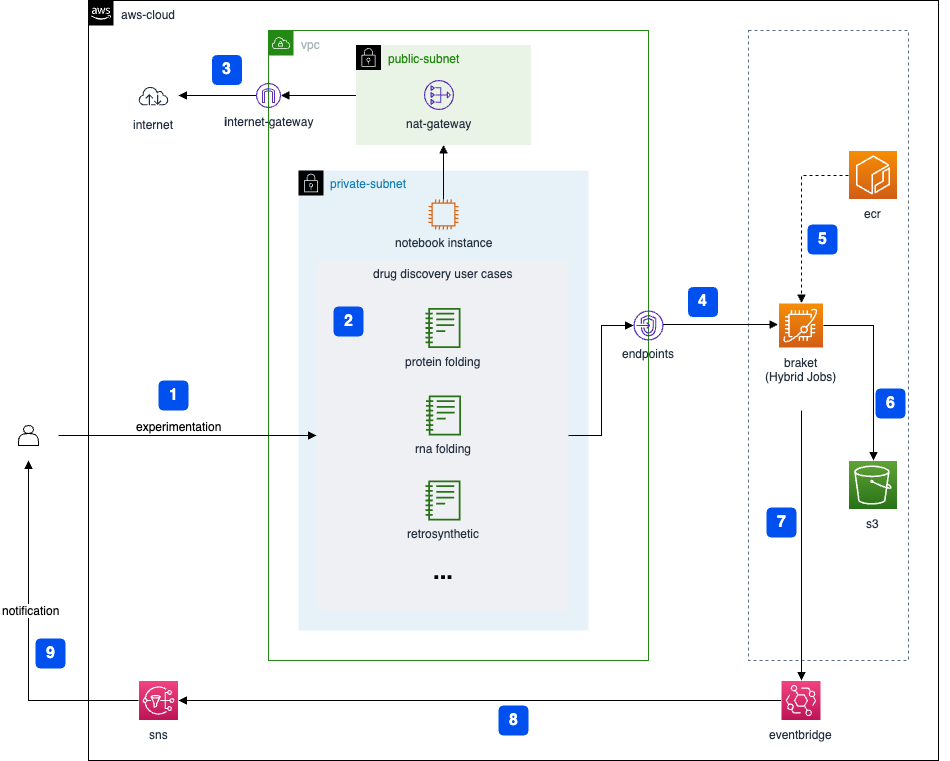
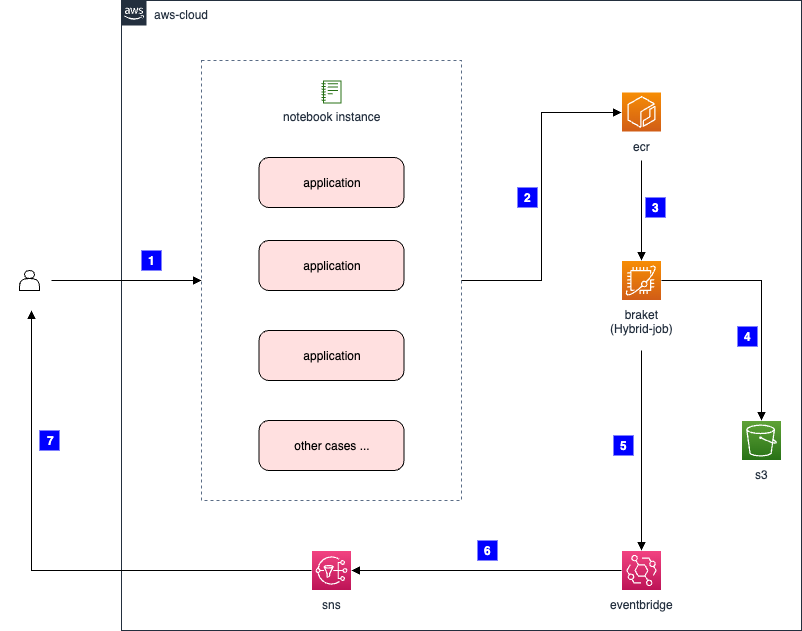
remove vpc& modify docs

diff --git a/source/src/cdk/stack-main.ts b/source/src/cdk/stack-main.ts
@@ -41,9 +41,6 @@ import { Notebook } from './construct-notebook';
 import { AddCfnNag, genRandomDigits } from './utils/utils';
 
 
-import setup_vpc_and_sg from './utils/vpc';
-
-
 export class MainStack extends SolutionStack {
   static SOLUTION_ID = 'SO8027'
   static SOLUTION_NAME = 'Quantum Computing Exploration'
@@ -96,10 +93,6 @@ export class MainStack extends SolutionStack {
 
     const prefix = MainStack.SOLUTION_NAME.split(' ').join('-').toLowerCase();
 
-    const {
-      vpc,
-      notebookSg,
-    } = setup_vpc_and_sg(this);
 
     {
       const snsKey = new kms.Key(this, 'SNSKey', {
@@ -190,8 +183,6 @@ export class MainStack extends SolutionStack {
         account: this.account,
         region: this.region,
         prefix,
-        vpc,
-        notebookSg,
         stackName,
         bucketName: s3bucket.bucketName,
       });
@@ -202,7 +193,6 @@ export class MainStack extends SolutionStack {
       });
 
       notebook.node.addDependency(s3bucket);
-      notebook.node.addDependency(vpc);
     }
 
     Aspects.of(this).add(new AddCfnNag());

diff --git a/source/src/cdk/construct-notebook.ts b/source/src/cdk/construct-notebook.ts
@@ -49,8 +49,6 @@ export interface Props {
   region: string;
   account: string;
   prefix: string;
-  notebookSg: ec2.SecurityGroup;
-  vpc: ec2.Vpc;
   stackName: string;
   bucketName: string;
 }
@@ -99,11 +97,7 @@ export class Notebook extends Construct {
       lifecycleConfigName: installBraketSdk.attrNotebookInstanceLifecycleConfigName,
       volumeSizeInGb: 50,
       kmsKeyId: qcNotebookKey.keyId,
-      securityGroupIds: [this.props.notebookSg.securityGroupId],
-      subnetId: this.props.vpc.selectSubnets({
-        subnetType: ec2.SubnetType.PRIVATE_WITH_NAT,
-      }).subnetIds[0],
-      directInternetAccess: 'Disabled',
+      directInternetAccess: 'Enabled',
       notebookInstanceName: `amazon-braket-qc-${genRandomDigits()}`,
     });
 

diff --git a/docs/en/revisions.md b/docs/en/revisions.md
@@ -1,5 +1,5 @@
-| Date       | Change                                                                                                                                                                                                                 |
-| ---------- | ---------------------------------------------------------------------------------------------------------------------------------------------------------------------------------------------------------------------- |
-| May 2022   | Initial release.                                                                                                                                                                                                       |
-| June 2022  | Release v1.0.1: bug fixes. For more information, refer to the [CHANGELOG.md](https://github.com/awslabs/quantum-computing-exploration-for-drug-discovery-on-aws/blob/main/CHANGELOG.md) file in the GitHub repository. |
-| April 2023 | Release v1.1.0: <br> Simplify architecture design, eliminate batch and quickSight feature, and optimize user experience.                                                                                               |
+| Date       | Change                                                                                                                                                                                                                                                                                                                    |
+| ---------- | ------------------------------------------------------------------------------------------------------------------------------------------------------------------------------------------------------------------------------------------------------------------------------------------------------------------------- |
+| May 2022   | Initial release.                                                                                                                                                                                                                                                                                                          |
+| June 2022  | Release v1.0.1: bug fixes. For more information, refer to the [CHANGELOG.md](https://github.com/awslabs/quantum-computing-exploration-for-drug-discovery-on-aws/blob/main/CHANGELOG.md) file in the GitHub repository.                                                                                                    |
+| April 2023 | Release v1.1.0: <br> 1. Restructure the architecture, decouple the user notebook code and the underlying system code<br> 2. Simplify the architecture design and eliminate the batch and quickSight functions<br> 3. Add the SNS mail subscription function to ensure that the job running results reach the user in time |

diff --git a/docs/en/architecture.md b/docs/en/architecture.md
@@ -4,23 +4,19 @@ Deploying the Quantum Computing Exploration for Drug Discovery on AWS solution w
 
 Figure 1: Quantum Computing Exploration for Drug Discovery on AWS architecture
 
-1. This solution deploy an [Amazon SageMaker Notebook](https://docs.aws.amazon.com/sagemaker/latest/dg/nbi.html) instance, which allows **notebook experimentation** for drug discovery.
+1. This solution deploys a notebook instance to allow [Amazon SageMaker Notebook](https://docs.aws.amazon.com/sagemaker/latest/dg/nbi.html) users to conduct **notebook experiments**. Notebooks come with use cases for different drug discovery problems such as molecule unfolding, RNA folding, protein folding, etc.
 
-2. The notebook comes with prepared use cases for different problems in drug discovery, such as molecular unfolding.
+2. When used for the first time, the system will mirror and upload the dependent packages required for the experiment to [Amazon ECR][ecr].
 
-3. The notebook supports connecting to the external network, which is convenient for you to download and install various environments for experiments.
+3. This program uses [Amazon Braket][braket] Hybrid Job for experiments.
 
-4. This program uses [Amazon Braket][braket] Hybrid Job for experiments.
+4. The experimental results will be stored in Amazon S3.
 
-5. When you use it for the first time, you need to package the dependency packages required for the experiment to image and upload the image to [Amazon ECR][ecr]. The solution provides scripts for mirror packaging and uploading ECR.
+5. Run multiple Hybrid Jobs in one experiment, and trigger the events in [Amazon EventBridge][eventbridge] when the Hybrid Job is completed.
 
-6. Run multiple Hybrid Jobs in one experiment, and trigger the events in [Amazon EventBridge][eventbridge] when the Hybrid Job is completed.
+6. EventBridge sends a notification to [Amazon SNS][sns], and all subscribers who have subscribed to this topic will receive this notification. This step is optional, and you can specify emails for subscription notifications when deploying the solution.
 
-7. EventBridge sends a notification to [Amazon SNS][sns], and all subscribers who have subscribed to this topic will receive this notification. This step is optional, and you can specify emails for subscription notifications when deploying the solution.
-
-8. Experiment results will be stored in Amazon S3.
-
-9. You can return to SageMaker Notebook to run the code to analyze and display the experimental results. In the default result analysis code, a comparison of the results of classical calculation and quantum calculation is provided.
+7. You can return to SageMaker Notebook to run the code to analyze and display the experimental results.
 
 [sagemaker]: https://aws.amazon.com/sagemaker/
 [braket]: https://aws.amazon.com/braket/

diff --git a/docs/zh/architecture.md b/docs/zh/architecture.md
@@ -4,23 +4,19 @@
 
 图 1：量子计算探索之药物发现方案架构图
 
-1. 本方案部署一个笔记本实例，从而允许[Amazon SageMaker Notebook](https://docs.aws.amazon.com/sagemaker/latest/dg/nbi.html)用户进行**笔记本实验**。
+1. 本方案部署一个笔记本实例，从而允许[Amazon SageMaker Notebook](https://docs.aws.amazon.com/sagemaker/latest/dg/nbi.html)用户进行**笔记本实验**。笔记本附带针对不同药物发现问题的用例，如分子展开、RNA 折叠、蛋白质折叠等。
 
-2. 笔记本附带针对不同药物发现问题的用例，如分子展开、RNA 折叠、蛋白质折叠等。
+2. 在第一次使用时，系统会将实验所需要的依赖包打镜像并上传至[Amazon ECR][ecr]中。
 
-3. 笔记本实例支持连接外网，方便您下载安装实验用的各种环境。
+3. 本方案利用[Amazon Braket][braket] Hybrid Job 进行实验。
 
-4. 本方案利用[Amazon Braket][braket] Hybrid Job 进行实验。
+4. 实验结果将存在 Amazon S3 中。
 
-5. 在第一次使用时，需要您将实验所需要的依赖包打镜像并上传至[Amazon ECR][ecr]中，方案中提供了镜像打包以及上传 ECR 的脚本。
+5. 一次实验运行多个 Hybrid Job，在 Hybrid Job 完成触发[Amazon EventBridge][eventbridge]中的事件。
 
-6. 一次实验运行多个 Hybrid Job，在 Hybrid Job 完成触发[Amazon EventBridge][eventbridge]中的事件。
+6. EventBridge 向[Amazon SNS][sns]发送一个通知，所有订阅了该主题的订阅者会收到此通知。此步骤为可选项，您可以在部署方案时指定订阅通知的邮件。
 
-7. EventBridge 向[Amazon SNS][sns]发送一个通知，所有订阅了该主题的订阅者会收到此通知。此步骤为可选项，您可以在部署方案时指定订阅通知的邮件。
-
-8. 实验结果将存在 Amazon S3 中。
-
-9. 您可以回到 SageMaker Notebook 中运行代码，来对实验结果进行分析及展示。默认的结果分析代码中，提供了经典计算和量子计算的结果对比。
+7. 您可以回到 SageMaker Notebook 中运行代码，来对实验结果进行分析及展示。默认的结果分析代码中，提供了经典计算和量子计算的结果对比。
 
 [sagemaker]: https://aws.amazon.com/sagemaker/
 [braket]: https://aws.amazon.com/braket/

diff --git a/docs/zh/revisions.md b/docs/zh/revisions.md
@@ -1,5 +1,5 @@
-| 日期         | 发布说明                                                                                                                                                                 |
-| ------------ | ------------------------------------------------------------------------------------------------------------------------------------------------------------------------ |
-| 2022 年 5 月 | 首次发布版本 v1.0.0                                                                                                                                                      |
-| 2022 年 6 月 | 版本 v1.0.1 ： 问题修护。请参考 GitHub 仓库中的[CHANGELOG.md](https://github.com/awslabs/quantum-computing-exploration-for-drug-discovery-on-aws/blob/main/CHANGELOG.md) |
-| 2023 年 4 月 | 发布版本 v1.1.0 <br>简化架构设计，剔除 batch、quickSight 功能，优化用户体验                                                                                              |
+| 日期         | 发布说明                                                                                                                                                                         |
+| ------------ | -------------------------------------------------------------------------------------------------------------------------------------------------------------------------------- |
+| 2022 年 5 月 | 首次发布版本 v1.0.0                                                                                                                                                              |
+| 2022 年 6 月 | 版本 v1.0.1 ： 问题修护。请参考 GitHub 仓库中的[CHANGELOG.md](https://github.com/awslabs/quantum-computing-exploration-for-drug-discovery-on-aws/blob/main/CHANGELOG.md)         |
+| 2023 年 4 月 | 发布版本 v1.1.0 <br> 1. 重构架构, 解耦用户 notebook 代码和系统代码 <br> 2. 简化架构设计, 剔除 batch、quickSight 功能<br> 3. 新增 SNS 邮件订阅功能, 确保 job 运行结果及时触达用户 |

diff --git a/docs/zh/template.md b/docs/zh/template.md
@@ -1,5 +1,5 @@
 部署解决方案之前，您可以下载解决方案使用的以下亚马逊云科技 CloudFormation 模板。
 
-[quantum-computing-exploration-for-drug-discovery-on-aws.template][cf-template-url]：使用此模板启动解决方案和所有相关组件。默认配置部署 [AWS SageMaker Notebook](https://docs.aws.amazon.com/sagemaker/latest/dg/nbi.html)、[Amazon S3](https://aws.amazon.com/s3/)、[AWS Identity and Access Management(IAM)](https://aws.amazon.com/iam/)、[Amazon Virtual Private Cloud(Amazon VPC)](https://aws.amazon.com/vpc/)、[Amazon Braket](https://aws.amazon.com/braket/)、[Amazon EventBridge](https://aws.amazon.com/eventbridge/)、[AWS SNS](https://aws.amazon.com/lambda/)，但您可以自定义模板以满足您的特定需求。
+[quantum-computing-exploration-for-drug-discovery-on-aws.template][cf-template-url]：使用此模板启动解决方案和所有相关组件。默认配置部署 [AWS SageMaker Notebook](https://docs.aws.amazon.com/sagemaker/latest/dg/nbi.html)、[Amazon S3](https://aws.amazon.com/s3/)、[AWS Identity and Access Management(IAM)](https://aws.amazon.com/iam/)、[Amazon Braket](https://aws.amazon.com/braket/)、[Amazon EventBridge](https://aws.amazon.com/eventbridge/)、[AWS SNS](https://aws.amazon.com/lambda/)，但您可以自定义模板以满足您的特定需求。
 
 [cf-template-url]: {{ cf_template.url }}

diff --git a/docs/en/template.md b/docs/en/template.md
@@ -1,6 +1,6 @@
 This solution uses AWS CloudFormation to automate the deployment of the Quantum Computing Exploration for Drug Discovery on AWS with all associated components in the AWS Cloud. It includes the following CloudFormation template, which you can download before deployment:
 
 [quantum-computing-exploration-for-drug-discovery.template][cf-template-url]: Use this template to launch the solution and all associated components.
-The default configuration deploys [AWS SageMaker Notebook](https://docs.aws.amazon.com/sagemaker/latest/dg/nbi.html), [Amazon Braket](https://aws.amazon.com/braket/), [AWS Identity and Access Management(IAM)](https://aws.amazon.com/iam/), [Amazon Virtual Private Cloud(Amazon VPC)](https://aws.amazon.com/vpc/),[Amazon EventBridge](https://aws.amazon.com/eventbridge/), [AWS SNS](https://aws.amazon.com/lambda/), but you can customize the template to meet your specific needs.
+The default configuration deploys [AWS SageMaker Notebook](https://docs.aws.amazon.com/sagemaker/latest/dg/nbi.html), [Amazon Braket](https://aws.amazon.com/braket/), [AWS Identity and Access Management(IAM)](https://aws.amazon.com/iam/), [Amazon EventBridge](https://aws.amazon.com/eventbridge/), [AWS SNS](https://aws.amazon.com/lambda/), but you can customize the template to meet your specific needs.
 
 [cf-template-url]: {{ cf_template.url }}

diff --git a/docs/zh/notices.md b/docs/zh/notices.md
@@ -1,0 +1,6 @@
+客户有责任对本文档中的信息进行自己的独立评估。 本文档：(a) 仅供参考，(b) 代表 Amazon Web Services 当前的产品供应和实践，如有更改，恕不另行通知，并且 (c) 不构成 Amazon Web Services 及其服务的任何承诺或保证 附属公司、供应商或许可方。 Amazon Web Services 产品或服务“按原样”提供，没有任何明示或暗示的保证、陈述或条件。 Amazon Web Services 对其客户的责任和义务由 Amazon Web Services 协议控制，本文档不属于也不会修改 Amazon Web Services 与其客户之间的任何协议。
+
+用于 AWS 上药物发现的 QuantuQuantum 计算探索
+根据 [The Apache Software Foundation][foundation] 提供的 Apache License Version 2.0 的条款获得许可。
+
+[foundation]: https://www.apache.org/licenses/LICENSE-2.0
